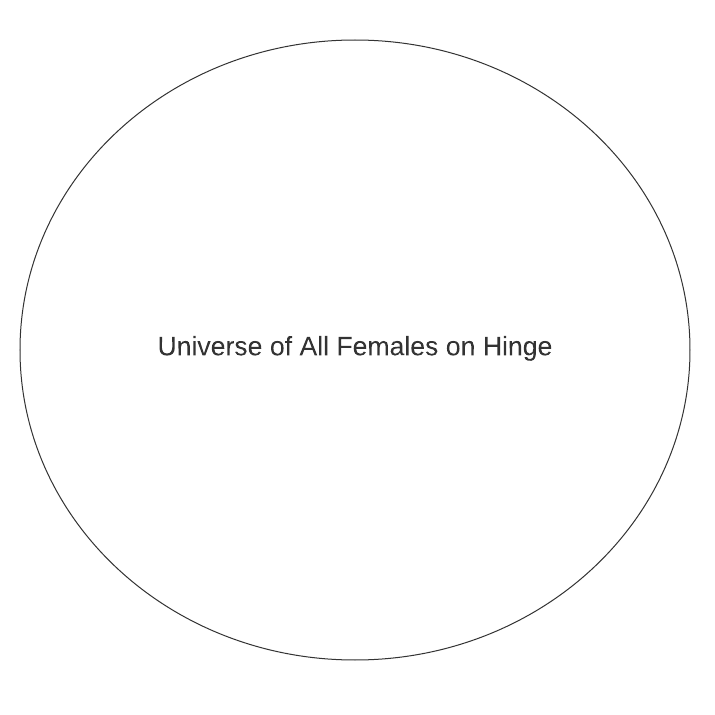
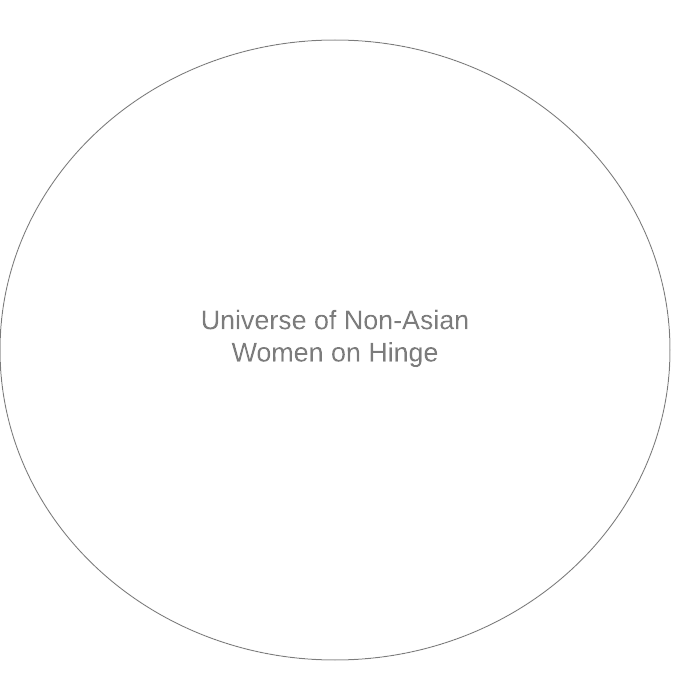
update post

diff --git a/_posts/2023-08-25-test-blog.md b/_posts/2023-08-25-test-blog.md
@@ -7,14 +7,14 @@ Probability is always easy with examples, especially engaging ones.
 
 For this we'll picture you're a short Asian guy on a dating app (aka me off and on several years ago). After reading this depressing [article](https://theconversation.com/asian-guys-stereotyped-and-excluded-in-online-dating-130855) you come to realize that 90% of non-Asian women want nothing to do with you (romantically that is). Yet you continue swiping with a false feeling that you're special, with your current odds of being 10% chance of matching if the person is non-Asian (successful assimilation has made you primarily attracted to non-Asian females).
 
-
+For sake of argument and because a 10% square is tough to visualize we'll say that the new influx of Asian movies and superheros has doubled the chance of a non-Asian woman being open to dating an Asian man to 20%, yipee!
 
 As you're swiping you come across an attractive white brunette and after some Instagram sleuthing, you've seen that her ex-boyfriend was Asian (and presumably still is). Hooray! But then you remember you're short.
 
-However, since she's the same height you still have a shot? 51% would date men the same height or shorter than them after all [article](https://fivethirtyeight.com/features/how-common-is-it-for-a-man-to-be-shorter-than-his-partner/)
+However, since she's the same height you still have a shot? 51% of women would date men the same height or shorter than them after all [article](https://fivethirtyeight.com/features/how-common-is-it-for-a-man-to-be-shorter-than-his-partner/)
 
 
-Based on an article you can no longer find you know that 35% of those that are willing to date short guys are also open to date Asians as well.
+Based on an article (that you can no longer find) you know that 35% of those that are willing to date short guys are also open to date Asians as well.
 
 So given these stats you oddly have memorized and the the new information gained from your Instagram sleuthing (creeping) how have your odds changed?
 
@@ -42,25 +42,35 @@ Neat!
 
 So we've just been defining the sample space through drawing shapes with random sizes, let's apply the evidence we've learned along with some of the weird stats you were stating earlier.
 
-It should really be this size
+Given, only 51% of women would date a shorter man (this may be inflated but we'll run with it), we can adjust the orange square to cover about half of the cirlce. Also, since we know that Asian
 
-IMAGE HERE
+![asian and short adjusted size](/docs/assets/2023-09-05/3-asian_shor4_universe_adjusted_size.png)
 
-Depressing!
 
-So the new evidence we've learned is that she is open to dating Asian men due to her past relationship. As a result we can filter down to the world in which women are open to dating Asian men. 
+
+So the new evidence we've learned is that your prospective beau is open to dating Asian men due to her past relationship. As a result we can filter down to the world in which women are open to dating Asian men. 
 
 Circled.
 
-IMAGE HERE
+![asian and short adjusted size highlighted](/docs/assets/2023-09-05/4-asian_shor4_universe_adjusted_highlighted.png)
 
 Filtered.
 
-IMAGE HERE
+![filtered universe](/docs/assets/2023-09-05/5-filtered-universe.png)
+
+
+So we've updated the world to account for our evidence (that she is open to dating asian)
+
 
 Our updated question becomes, what's the probability that given 
+we take these areas 
+![filtered universe](/docs/assets/2023-09-05/6-bayes-formula-setup.png)
 
-WE JUST TAKE THESE AREAS AND ADD IMAGE
+So really what we need is a way to define the areas with probabilities 
+
+![filtered universe](/docs/assets/2023-09-05/7-bayes-formula-probability.png)
+
+
 
 
 TO NARROW DOWN TO THIS WE NEED TO MULTIPLY X WITH Y
@@ -78,10 +88,10 @@ Where:
 
 
 Where:
-- \(P(Date Short |Date Asian)\) is the probability 
-- \(P(Date Asian | Date Short)\) is the probability of event B given event A.
-- \(P(Date Short)\) is the prior probability of event A.
-- \(P(Date Asian)\) is the prior probability of event B.
+- \(P(Date Short | Date Asian)\) is the probability of dating a short guy given she's open to dating an Asian guy
+- \(P(Date Asian | Date Short)\) is the probability of dating an Asian guy given she dates a short guy - 35%
+- \(P(Date Short)\) is the prior probability of event A - 51%
+- \(P(Date Asian)\) is the prior probability of event B - 10%
 
 
 
